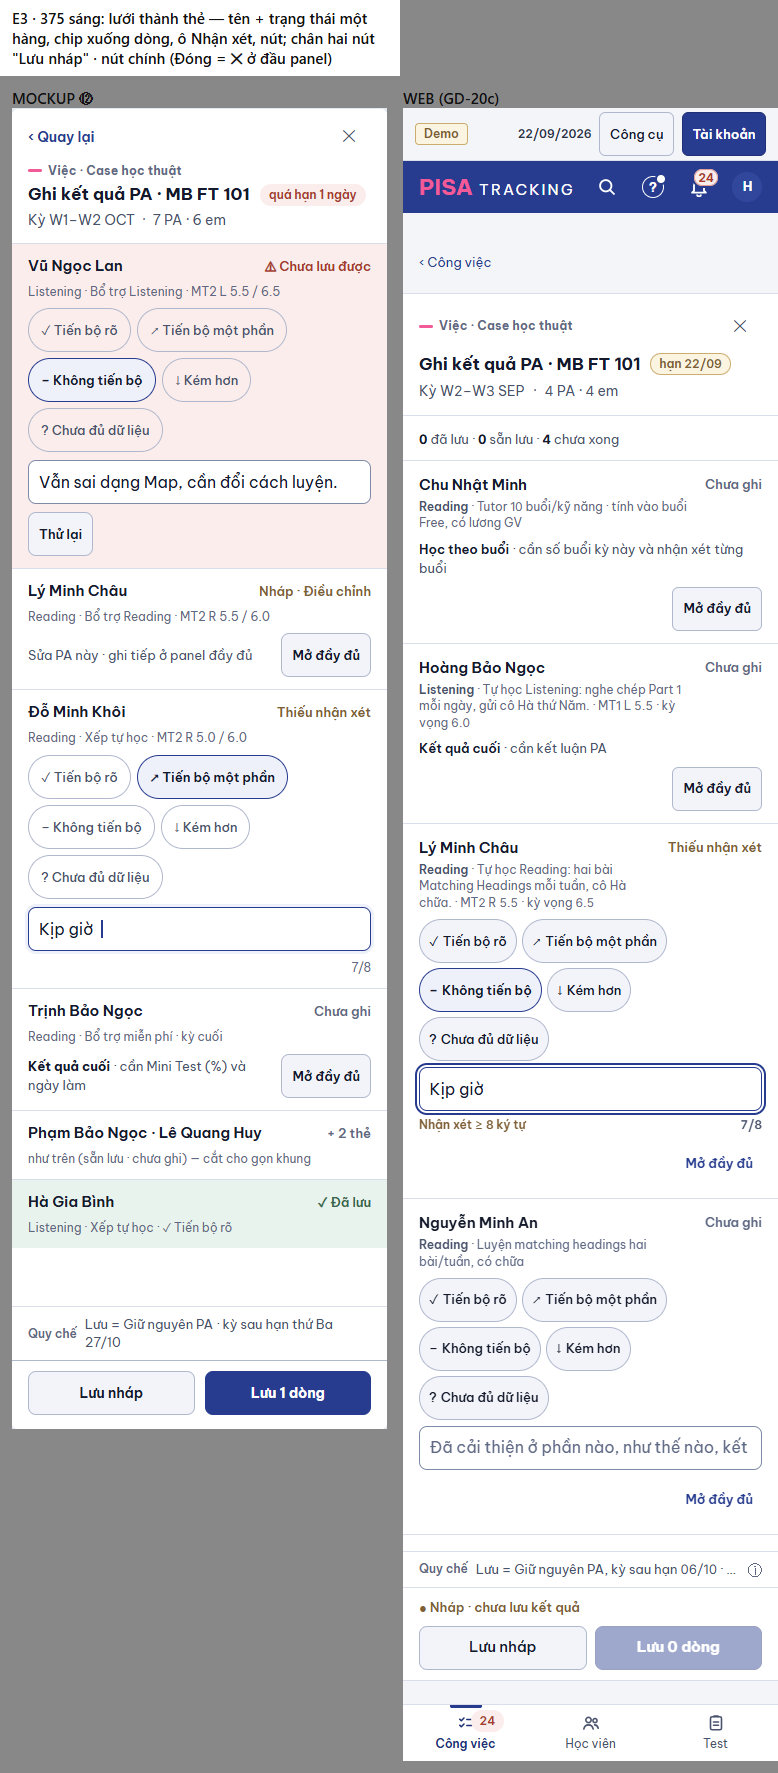
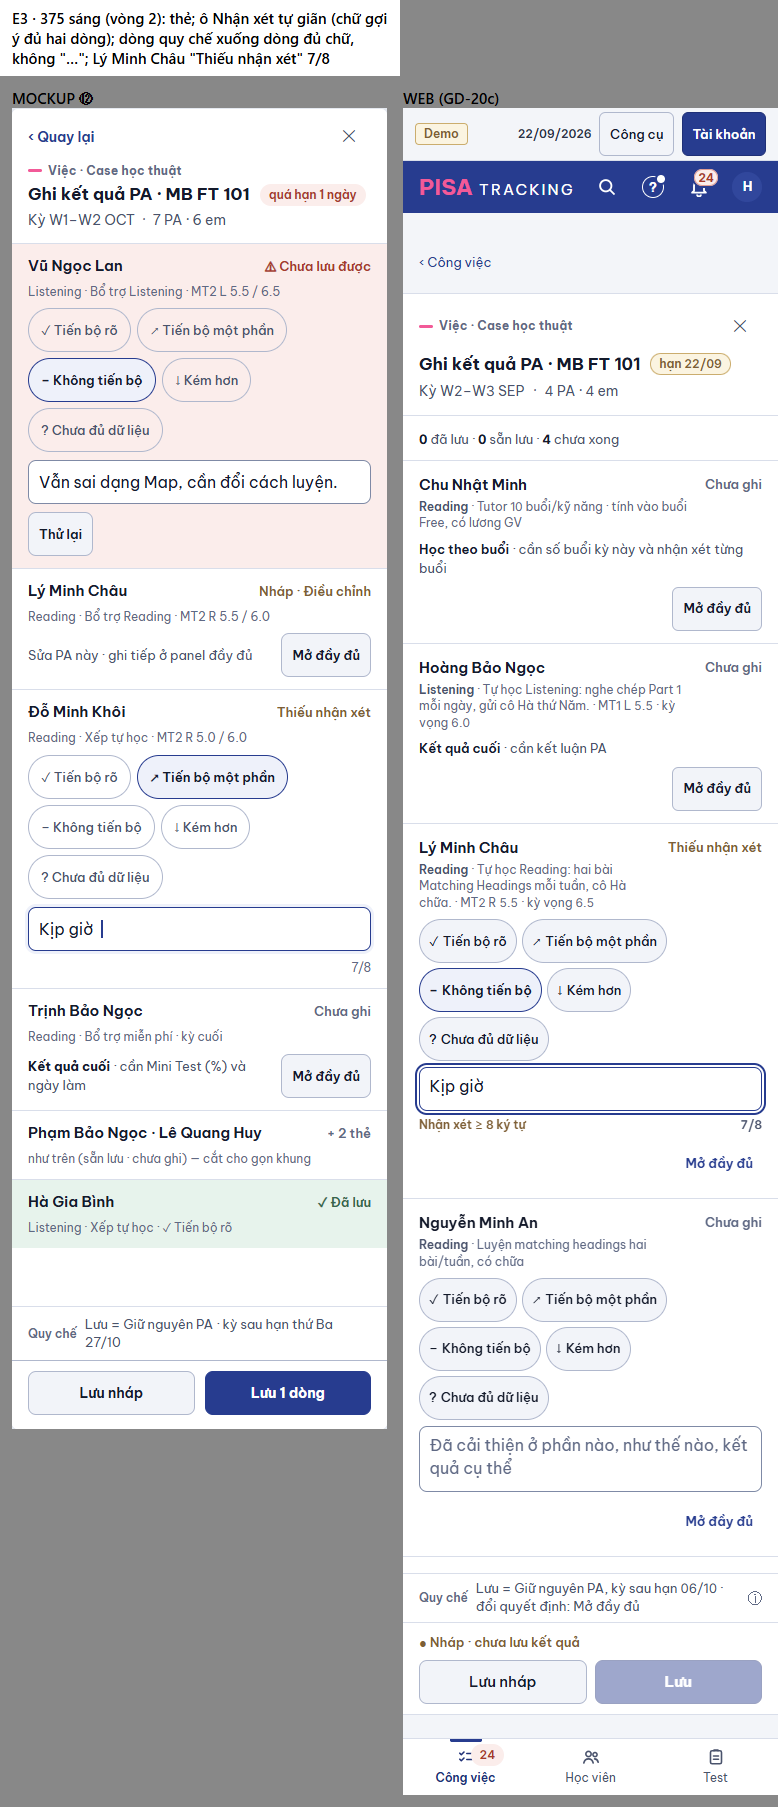
GD-20c vòng 2: Lưu mờ khi chưa dòng nào đủ, DongQuyChe 375 xuống dòng, ô Nhận xét tự giãn, PA ngoài quyền không chặn việc tiếp, Đóng về chỗ cuộn cũ

diff --git a/web/src/modules/congViec/LuoiKetQuaPa.tsx b/web/src/modules/congViec/LuoiKetQuaPa.tsx
@@ -87,7 +87,10 @@ export function LuoiKetQuaPa({ it, onDong, onDaLam, onTiep }: { it: WorkItem; on
     return nh && !sua[id] ? 'nhap' : 'thieu';
   };
   const du = (x: Em) => { const v = giaTri(x.paId!); const n = v.note.trim().length; return !phuc(x) && !!v.outcome && n >= CHU_TOI_THIEU_CASE && n <= TRAN_CHU.ketQuaPa; };
-  const conLai = ds.filter((x) => !da.has(x.paId!));
+  /* PA máy chủ không trả (ngoài quyền xem) không tính vào "đủ / xong" của lưới — không chặn "Lưu · việc tiếp ›"; báo một dòng (PTA rà #1738). */
+  const ngoai = data ? ds.filter((x) => !paCua.has(x.paId!)) : [];
+  const dsLam = ngoai.length ? ds.filter((x) => paCua.has(x.paId!)) : ds;
+  const conLai = dsLam.filter((x) => !da.has(x.paId!));
   const sanLuu = conLai.filter((x) => du(x) && !dang.has(x.paId!) && (!loi[x.paId!] || (loi[x.paId!].thuLai && !loi[x.paId!].xungDot)));   // xung đột nháp: chỉ nút của dòng (chọn bản), không lưu đè hàng loạt
   const coLoi = conLai.filter((x) => loi[x.paId!]);
   const tatCaDu = conLai.length > 0 && conLai.every((x) => du(x));
@@ -124,7 +127,7 @@ export function LuoiKetQuaPa({ it, onDong, onDaLam, onTiep }: { it: WorkItem; on
     setDang(new Set()); setLoi(loiMoi); setDa(daMoi); boSua(ok); xepLai(loiMoi, daMoi);
     dangGui.current = false; setGui(null);
     if (ok.length) lamMoiNgoai();
-    if (diTiep && onTiep && ds.every((x) => daMoi.has(x.paId!))) onTiep();
+    if (diTiep && onTiep && dsLam.every((x) => daMoi.has(x.paId!))) onTiep();
   };
   /** Lưu nháp các dòng đã sửa (không kiểm đủ ô, không chốt; việc / hạn không đổi). */
   const luuNhap = async (ids: readonly number[]) => {
@@ -177,19 +180,21 @@ export function LuoiKetQuaPa({ it, onDong, onDaLam, onTiep }: { it: WorkItem; on
   const hanKe = [...new Set(ds.filter((x) => !phuc(x)).map((x) => paCua.get(x.paId!)?.hanKe ?? null))];
 
   /* ─── chân BA nút (mockup ⑫ C3, [XM-8]): Đóng · Lưu nháp · nút chính đổi nhãn theo trạng thái; hết dòng → "✓ Đã lưu" + "Việc tiếp ›". */
-  const xongHet = ds.length > 0 && conLai.length === 0;
+  const xongHet = dsLam.length > 0 && conLai.length === 0;
   const nutChinh = xongHet
     ? (onTiep ? <button type="button" className="btn btn-primary min-h-[44px] px-4 font-bold sm:min-h-[40px]" onClick={onTiep}>{t('Việc tiếp ›')}</button> : null)
     : sanLuu.length && sanLuu.every((x) => loi[x.paId!])
       ? <button type="button" className="btn btn-primary min-h-[44px] px-4 font-bold sm:min-h-[40px]" disabled={!!gui || !sanLuu.length} onClick={() => void luu(sanLuu.map((x) => x.paId!))}>{t('Thử lại {n} dòng', { n: sanLuu.length })}</button>
       : tatCaDu && onTiep
         ? <button type="button" className="btn btn-primary min-h-[44px] px-4 font-bold sm:min-h-[40px]" disabled={!!gui} aria-busy={gui === 'chot'} onClick={() => void luu(sanLuu.map((x) => x.paId!), true)}>{t('Lưu · việc tiếp ›')}</button>
-        : <button type="button" className="btn btn-primary min-h-[44px] px-4 font-bold sm:min-h-[40px]" disabled={!!gui || !sanLuu.length} aria-busy={gui === 'chot'} onClick={() => void luu(sanLuu.map((x) => x.paId!))}>{t('Lưu {n} dòng', { n: sanLuu.length })}</button>;
+        : <button type="button" className="btn btn-primary min-h-[44px] px-4 font-bold sm:min-h-[40px]" disabled={!!gui || !sanLuu.length} aria-busy={gui === 'chot'}
+            title={sanLuu.length ? undefined : conLai.some((x) => !phuc(x)) ? t('Chưa có dòng đủ: chọn Tiến triển và Nhận xét ≥ {n} ký tự', { n: CHU_TOI_THIEU_CASE }) : t('Các dòng còn lại cần Mở đầy đủ')}
+            onClick={() => void luu(sanLuu.map((x) => x.paId!))}>{sanLuu.length ? t('Lưu {n} dòng', { n: sanLuu.length }) : t('Lưu')}</button>;
   const coSoNhap = conLai.filter((x) => !phuc(x) && sua[x.paId!]);
   const nutNhap = !xongHet && data && conLai.some((x) => !phuc(x)) && (
     <button type="button" className="btn min-h-[44px] px-4 sm:min-h-[40px]" disabled={!!gui} onClick={() => void luuNhap(coSoNhap.map((x) => x.paId!))}>{gui === 'nhap' ? t('Đang lưu nháp…') : t('Lưu nháp')}</button>
   );
-  const soDa = ds.length - conLai.length;
+  const soDa = dsLam.length - conLai.length;
   const trai: ReactNode = gui ? <span className="tt-luu dang" role="status">{gui === 'nhap' ? t('Đang lưu nháp…') : t('Đang lưu {n} dòng…', { n: sanLuu.length || 1 })}</span>
     : xongHet ? <span className="tt-luu da" role="status">✓ {t('Đã lưu')}</span>
     : coLoi.length ? <>{soDa > 0 && <span className="tt-luu da">✓ {t('Đã lưu {n}', { n: soDa })}</span>}<span className="tt-luu loi" role="status">⚠ {t('{n} dòng không lưu được ↑', { n: coLoi.length })}</span></>
@@ -199,7 +204,7 @@ export function LuoiKetQuaPa({ it, onDong, onDaLam, onTiep }: { it: WorkItem; on
 
   const dau = { ...dauViec({ han: it.due && !xongHet ? <ChipHan vien loai="cap-nhat-pa" han={it.due} /> : null, ngCanh: null }),
     loai: t('Việc · Case học thuật'), dong2: [ky ? t('Kỳ {ky}', { ky }) : null, t('{n} PA · {m} em', { n: ds.length, m: soEm })] };
-  const demTt = (k: Tt[]) => ds.filter((x) => k.includes(trangThai(x))).length;
+  const demTt = (k: Tt[]) => dsLam.filter((x) => k.includes(trangThai(x))).length;
 
   const luoi = (
     <KhungPanel hd="ket-qua-pa" rong="bang" tieuDe={t('Ghi kết quả PA · {lop}', { lop: tenLop })} dau={dau} onDong={onDong}
@@ -210,7 +215,8 @@ export function LuoiKetQuaPa({ it, onDong, onDaLam, onTiep }: { it: WorkItem; on
         : (
           <div className="flex flex-col gap-2.5 pt-3.5">
             <p className="m-0 text-[13px] text-dim">
-              <b className="font-bold tabular-nums text-[color:var(--text)]">{demTt(['da'])}</b> {t('đã lưu')} · <b className="font-bold tabular-nums text-[color:var(--text)]">{demTt(['san'])}</b> {t('sẵn lưu')} · <b className="font-bold tabular-nums text-[color:var(--text)]">{ds.length - demTt(['da', 'san'])}</b> {t('chưa xong')}
+              <b className="font-bold tabular-nums text-[color:var(--text)]">{demTt(['da'])}</b> {t('đã lưu')} · <b className="font-bold tabular-nums text-[color:var(--text)]">{demTt(['san'])}</b> {t('sẵn lưu')} · <b className="font-bold tabular-nums text-[color:var(--text)]">{dsLam.length - demTt(['da', 'san'])}</b> {t('chưa xong')}
+              {ngoai.length > 0 && <span className="text-faint"> · {t('{n} PA ngoài quyền xem', { n: ngoai.length })}</span>}
             </p>
             <div className="overflow-hidden rounded-[10px] border max-sm:-mx-4 max-sm:rounded-none max-sm:border-x-0" style={{ borderColor: 'var(--line)' }}>
               <div className="grid grid-cols-[186px_minmax(0,1fr)_124px] gap-x-3.5 border-b px-3.5 py-2 text-xs font-semibold text-faint max-sm:hidden" style={{ borderColor: 'var(--line)', background: 'var(--surface-2)' }}>
@@ -219,7 +225,7 @@ export function LuoiKetQuaPa({ it, onDong, onDaLam, onTiep }: { it: WorkItem; on
                 <span>{t('Trạng thái')}</span>
               </div>
               <ul className="m-0 list-none p-0">
-                {thuTu.map((id, i) => {
+                {thuTu.filter((id) => !ngoai.some((x) => x.paId === id)).map((id, i) => {
                   const x = emCua.get(id)!;
                   return (
                     <li key={id} className={i ? 'border-t' : ''} style={{ borderColor: 'var(--line)' }}>
@@ -318,7 +324,8 @@ function DongLuoi({ em, pa, tt, v, daLuu, loi, nhap, khoa, datO, thuLai, dungBan
               </button>
             ))}
           </div>
-          <input className="field min-h-[44px] w-full text-sm sm:min-h-9" name={`nhan-xet-${em.paId}`} autoComplete="off" value={v.note} readOnly={dang} placeholder={dich(GOI_Y_KET_QUA_PA)} aria-label={t('Nhận xét · {ten}', { ten: em.studentName })}
+          {/* Ô tự giãn theo chữ (mockup ⑫ `.o`): một dòng khi ngắn, xuống dòng khi dài; 375 chữ gợi ý hiện đủ (hai dòng). */}
+          <textarea rows={1} className="field min-h-[44px] w-full resize-none text-sm [field-sizing:content] sm:min-h-9 max-sm:placeholder-shown:min-h-[66px]" name={`nhan-xet-${em.paId}`} autoComplete="off" value={v.note} readOnly={dang} placeholder={dich(GOI_Y_KET_QUA_PA)} aria-label={t('Nhận xét · {ten}', { ten: em.studentName })}
             aria-invalid={tt === 'thieu' && n > 0 ? true : undefined} onChange={(e) => datO({ note: e.target.value })} />
           {/* Bộ đếm chỉ khi đang gõ mà chưa đủ / quá dài (mockup C2 "Nhận xét ≥ 8 ký tự · 7/8"). */}
           {n > 0 && (n < CHU_TOI_THIEU_CASE || n > TRAN_CHU.ketQuaPa) && (

diff --git a/server/src/tests/thanhPhanChung.tests.ts b/server/src/tests/thanhPhanChung.tests.ts
@@ -522,11 +522,12 @@ export async function runThanhPhanChungTests(t: YThucTestKit) {
   });
 
   console.log('\nNT-SUA · nghiệm thu V6');
-  check('NT-SUA · Hoàn tác lần ghi vi phạm im lặng (chỉ "Đã hoàn tác", không toast xoá thứ hai); quy chế câu dài chỉ gọn + ⓘ ở 375', () => {
+  check('NT-SUA · Hoàn tác lần ghi vi phạm im lặng (chỉ "Đã hoàn tác", không toast xoá thứ hai); quy chế 375 xuống dòng đủ chữ, ⓘ chỉ khi có chi tiết', () => {
     const xoa = doc('web/src/modules/yThuc/DeleteViolationConfirm.tsx'); const ghi = doc('web/src/modules/yThuc/RecordViolationPanel.tsx'); const kp = doc('web/src/ui/KhungPanel.tsx');
     assert(/imLang = false/.test(xoa) && /if \(!imLang\) hoanTacXoa\(/.test(xoa), 'xoaViPham có cờ imLang bỏ toast xoá');
     assert(/xoaViPham\(toast, id, true\)/.test(ghi) && /t\('Đã hoàn tác'\)/.test(ghi), 'Hoàn tác ghi vi phạm gọi im lặng + báo "Đã hoàn tác"');
-    assert(/className="sm:hidden"><NutLuat[^>]*>\{qc\.chu\}/.test(kp) && /qc\.chiTiet \? <NutLuat/.test(kp), 'ⓘ câu dài chỉ ở 375 (sm:hidden); ⓘ chiTiet giữ mọi cỡ');
+    /* GD-20c (PTA rà #1738): 375 quy chế xuống dòng đủ chữ, không "…"; ⓘ chỉ khi có chi tiết (bỏ ⓘ nhắc lại câu). */
+    assert(/className="min-w-0 flex-1 sm:truncate"/.test(kp) && /\{qc\.chiTiet && <NutLuat/.test(kp) && !/\{qc\.chu\}<\/NutLuat>/.test(kp), 'quy chế 375 không cắt "…"; ⓘ chỉ khi có chiTiet');
   });
   check('NT-SUA P1-2 · đếm bài của việc Nhập điểm: dòng việc "n bài" = đầu panel "còn n / m" (em ngoài dòng việc / ngừng học không vào)', () => {
     const o = (band: number | null) => ({ required: true, canEdit: true, band, noShow: null, progress: band === null ? 'due' : 'scored' });

diff --git a/web/src/modules/congViec/HoTroHocVienTab.tsx b/web/src/modules/congViec/HoTroHocVienTab.tsx
@@ -306,7 +306,8 @@ export function HoTroHocVienTab() {
     else {
       daDay.current = khongViec(params);
       const v = vungCuon();
-      if (v && window.matchMedia(MAN_HEP).matches) { cuon.current = v.scrollTop; v.scrollTo(0, 0); }
+      /* GD-20c ([XM-G1] PTA chốt): lưới Ghi kết quả PA ẩn danh sách cả ở máy tính — nhớ chỗ cuộn như điện thoại, Đóng về đúng dòng cũ. */
+      if (v && (window.matchMedia(MAN_HEP).matches || (it.group === 'ghi_ket_qua_pa' && moCaDong(it)))) { cuon.current = v.scrollTop; v.scrollTo(0, 0); }
       setParams(next);
     }
   };
@@ -319,10 +320,12 @@ export function HoTroHocVienTab() {
   /* Điện thoại: danh sách hiện lại (nút "‹ Công việc" hay nút Lùi) → về đúng chỗ cuộn cũ, SAU khi vẽ (trước đó cuộn neo theo nội dung panel). */
   const coChon = !!chon;
   const vuaCo = useRef(coChon);
+  const vuaRong = useRef(luoiRong);
   useLayoutEffect(() => {
-    if (vuaCo.current && !coChon && window.matchMedia(MAN_HEP).matches) vungCuon()?.scrollTo(0, cuon.current);
+    if (vuaCo.current && !coChon && (window.matchMedia(MAN_HEP).matches || vuaRong.current)) vungCuon()?.scrollTo(0, cuon.current);
     vuaCo.current = coChon;
-  }, [coChon]);
+    vuaRong.current = luoiRong;
+  }, [coChon, luoiRong]);
   /* ponytail: "đang hiện" đọc từ DOM — nhóm gập, việc sau "Xem thêm", em của dòng gộp chưa mở không được vẽ; nâng lên state nếu DanhSachViec đổi cách vẽ. */
   const dangHien = (k: string) => !!document.querySelector(`[data-khoa="${CSS.escape(k)}"]`);
   /* CONG-VIEC-2: việc tiếp đi hết nhóm (`viecKeTiepVong`). Hết nhóm → thẻ "Hết việc {nhóm}" + việc đầu nhóm sau (`xoay`: các nhóm sau trước, rồi vòng lên). */

diff --git a/web/src/ui/KhungPanel.tsx b/web/src/ui/KhungPanel.tsx
@@ -506,10 +506,10 @@ export function DongQuyChe({ qc, px = 'px-4', vien = true }: { qc: { chu: string
   return (
     <div className={`flex min-h-9 shrink-0 items-center gap-2 ${vien ? 'border-t' : 'border-b'} ${px} py-1.5 text-[13px] leading-snug text-dim`} style={{ borderColor: 'var(--line)' }}>
       <span className="shrink-0 text-xs font-semibold text-faint">{t('Quy chế')}</span>
-      {/* NT-SUA (nghiệm thu 375): ở 375 một dòng, cắt "…" — câu dài hơn 40 ký tự có ⓘ đọc đủ (chân không nở thành 3 dòng). 1440 giữ như mockup ⑤. */}
-      <span className="min-w-0 flex-1 truncate" title={qc.chu}>{qc.chu}</span>
-      {qc.chiTiet ? <NutLuat phai label={t('Chi tiết quy chế')}>{qc.chiTiet}</NutLuat>
-        : qc.chu.length > 40 && <span className="sm:hidden"><NutLuat phai label={t('Chi tiết quy chế')}>{qc.chu}</NutLuat></span>}
+      {/* GD-20c (PTA rà #1738, thay NT-SUA "375 một dòng …"): 375 câu xuống dòng đủ chữ (câu quy chế ≤ 90 ký tự → tối đa 2 dòng), không "…";
+          ≥ 640 một dòng như mockup ⑤. ⓘ chỉ khi có chi tiết. */}
+      <span className="min-w-0 flex-1 sm:truncate" title={qc.chu}>{qc.chu}</span>
+      {qc.chiTiet && <NutLuat phai label={t('Chi tiết quy chế')}>{qc.chiTiet}</NutLuat>}
     </div>
   );
 }

diff --git a/shared/i18n/en/gd20cLuoiKetQua.ts b/shared/i18n/en/gd20cLuoiKetQua.ts
@@ -47,4 +47,7 @@ export const EN_GD20C_LUOI_KET_QUA = {
     'Click <b>Save n rows</b> (all complete: <b>Save · next task ›</b>): rows save as <b>Keep</b>; a failed row says so in place, text kept, <b>Retry</b>.',
   'Đổi quyết định, Kết quả cuối, PA theo buổi: <b>Mở đầy đủ</b>, xong bấm <b>‹ Lưới</b>.':
     'To change the decision, final result or session-based plan: <b>Open in full</b>, then <b>‹ Grid</b>.',
+  '{n} PA ngoài quyền xem': '{n} plans outside your view',
+  'Chưa có dòng đủ: chọn Tiến triển và Nhận xét ≥ {n} ký tự': 'No complete row yet: pick Progress and a Comment ≥ {n} characters',
+  'Các dòng còn lại cần Mở đầy đủ': 'Remaining rows need Open in full',
 } as const;

diff --git a/docs/anh/gd20c-luoi-kq-pa/khop-khac.md b/docs/anh/gd20c-luoi-kq-pa/khop-khac.md
@@ -79,3 +79,12 @@ Không mất thao tác nào.
 - `web-design-guidelines`: ô Nhận xét thêm `name` + `autocomplete="off"`; ngoặc kép cong ở câu xung đột; trạng thái chân `role="status"`, lỗi dòng `role="alert"`. Còn lại đạt.
 - `/ponytail-review`: không cắt thêm (helper `lucNhap` / `xungDotCua` nhỏ trùng ý `CapNhatTuan.tsx` — không xuất từ đó để khỏi đụng tệp GD-20d đang sửa). Lean.
 - `layout` / `polish` / `adapt` / `harden`: cột, khoảng cách, cỡ chữ theo `gv-viet-it.css .lkq`; 375 thẻ; lỗi từng dòng, chữ giữ (nháp trình duyệt `useNhap` — tải lại trang vẫn còn), xung đột nháp, kỳ đã chốt (409 daChot, không Thử lại).
+
+## 7. Vòng 2 (PTA rà #1738, 15/11) — [XM] đã chốt, sửa 4 chỗ
+
+PTA chốt: G1 (ẩn danh sách khi mở lưới; Đóng về đúng chỗ cuộn cũ — nhớ / trả vị trí cuộn như điện thoại), L1 để sau, L2 panel Case, bỏ Hoàn tác, "Không lưu được".
+1. Chưa dòng nào sẵn: nút chính "Lưu" mờ + `title` nói còn thiếu gì ("Chưa có dòng đủ: chọn Tiến triển và Nhận xét ≥ 8 ký tự" / "Các dòng còn lại cần Mở đầy đủ") — thay "Lưu 0 dòng".
+2. `DongQuyChe` (thành phần chung): 375 xuống dòng đủ chữ, không "…" (câu ≤ 90 ký tự → ≤ 2 dòng); ≥ 640 một dòng như cũ; ⓘ chỉ khi có chi tiết (bỏ ⓘ nhắc lại câu). Soi 375: lưới (2 dòng, không cắt), Ghi kết quả PA một em (2 dòng), việc Vận hành của QL (2 dòng) — `cap-e3`, `cap-qc-ket-qua-mot-pa`, `cap-qc-van-hanh`, số đo `so-375-vong2.json`.
+3. Ô Nhận xét → `textarea` tự giãn (`field-sizing: content`); 375 ô trống cao đủ hai dòng nên chữ gợi ý không bị cắt.
+4. PA máy chủ không trả (ngoài quyền xem) không tính vào đủ / xong → "Lưu · việc tiếp ›" đi được; dòng đếm thêm "· n PA ngoài quyền xem".
+`npm run check` lại: 5783 đạt, tốc độ đạt, css / esbuild / hook sạch.
